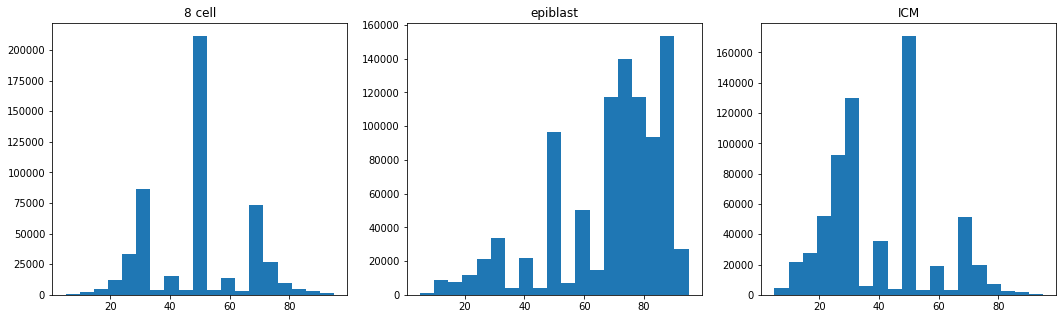
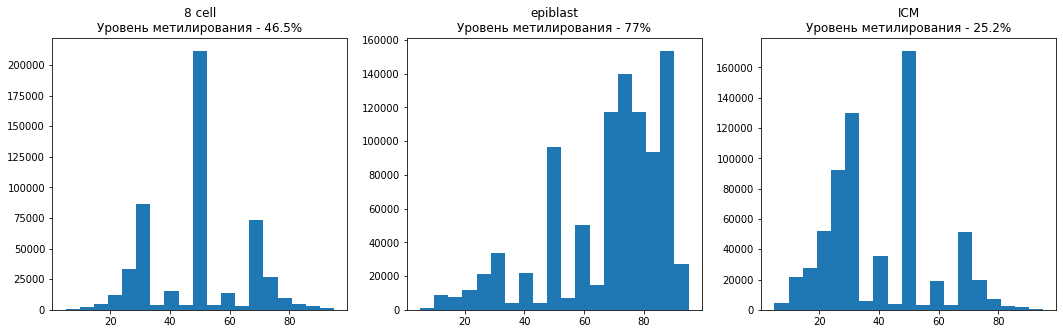
updated hist

diff --git a/readme.md b/readme.md
@@ -38,5 +38,5 @@
 
 ### Уровень метилирования в образцах
 Получившиеся гистограммы согласовываются с тем, что при раннем эмбриогенезе наблюдается
-демитилирование (8 cell - 2.25 день => ICM - 3.5 день), затем в процесс имплантации происходит скачек метилирования (epiblast).
+демитилирование (8 cell - 2.25 день => ICM - 3.5 день), затем в процесс имплантации происходит скачек метилирования (epiblast). Так в образцах 8 cell мы видим примерно симметричное распределение количества метилированных образцов с центром олоко 50%, затем в образцах ICM наблюдается сдвиг к ридам с более низким уровнем метилирования, а в epiblast наоборот - к ридам с более высоким.
 ![Alt text](/imgs/histograms.png?raw=true "Optional Title")
